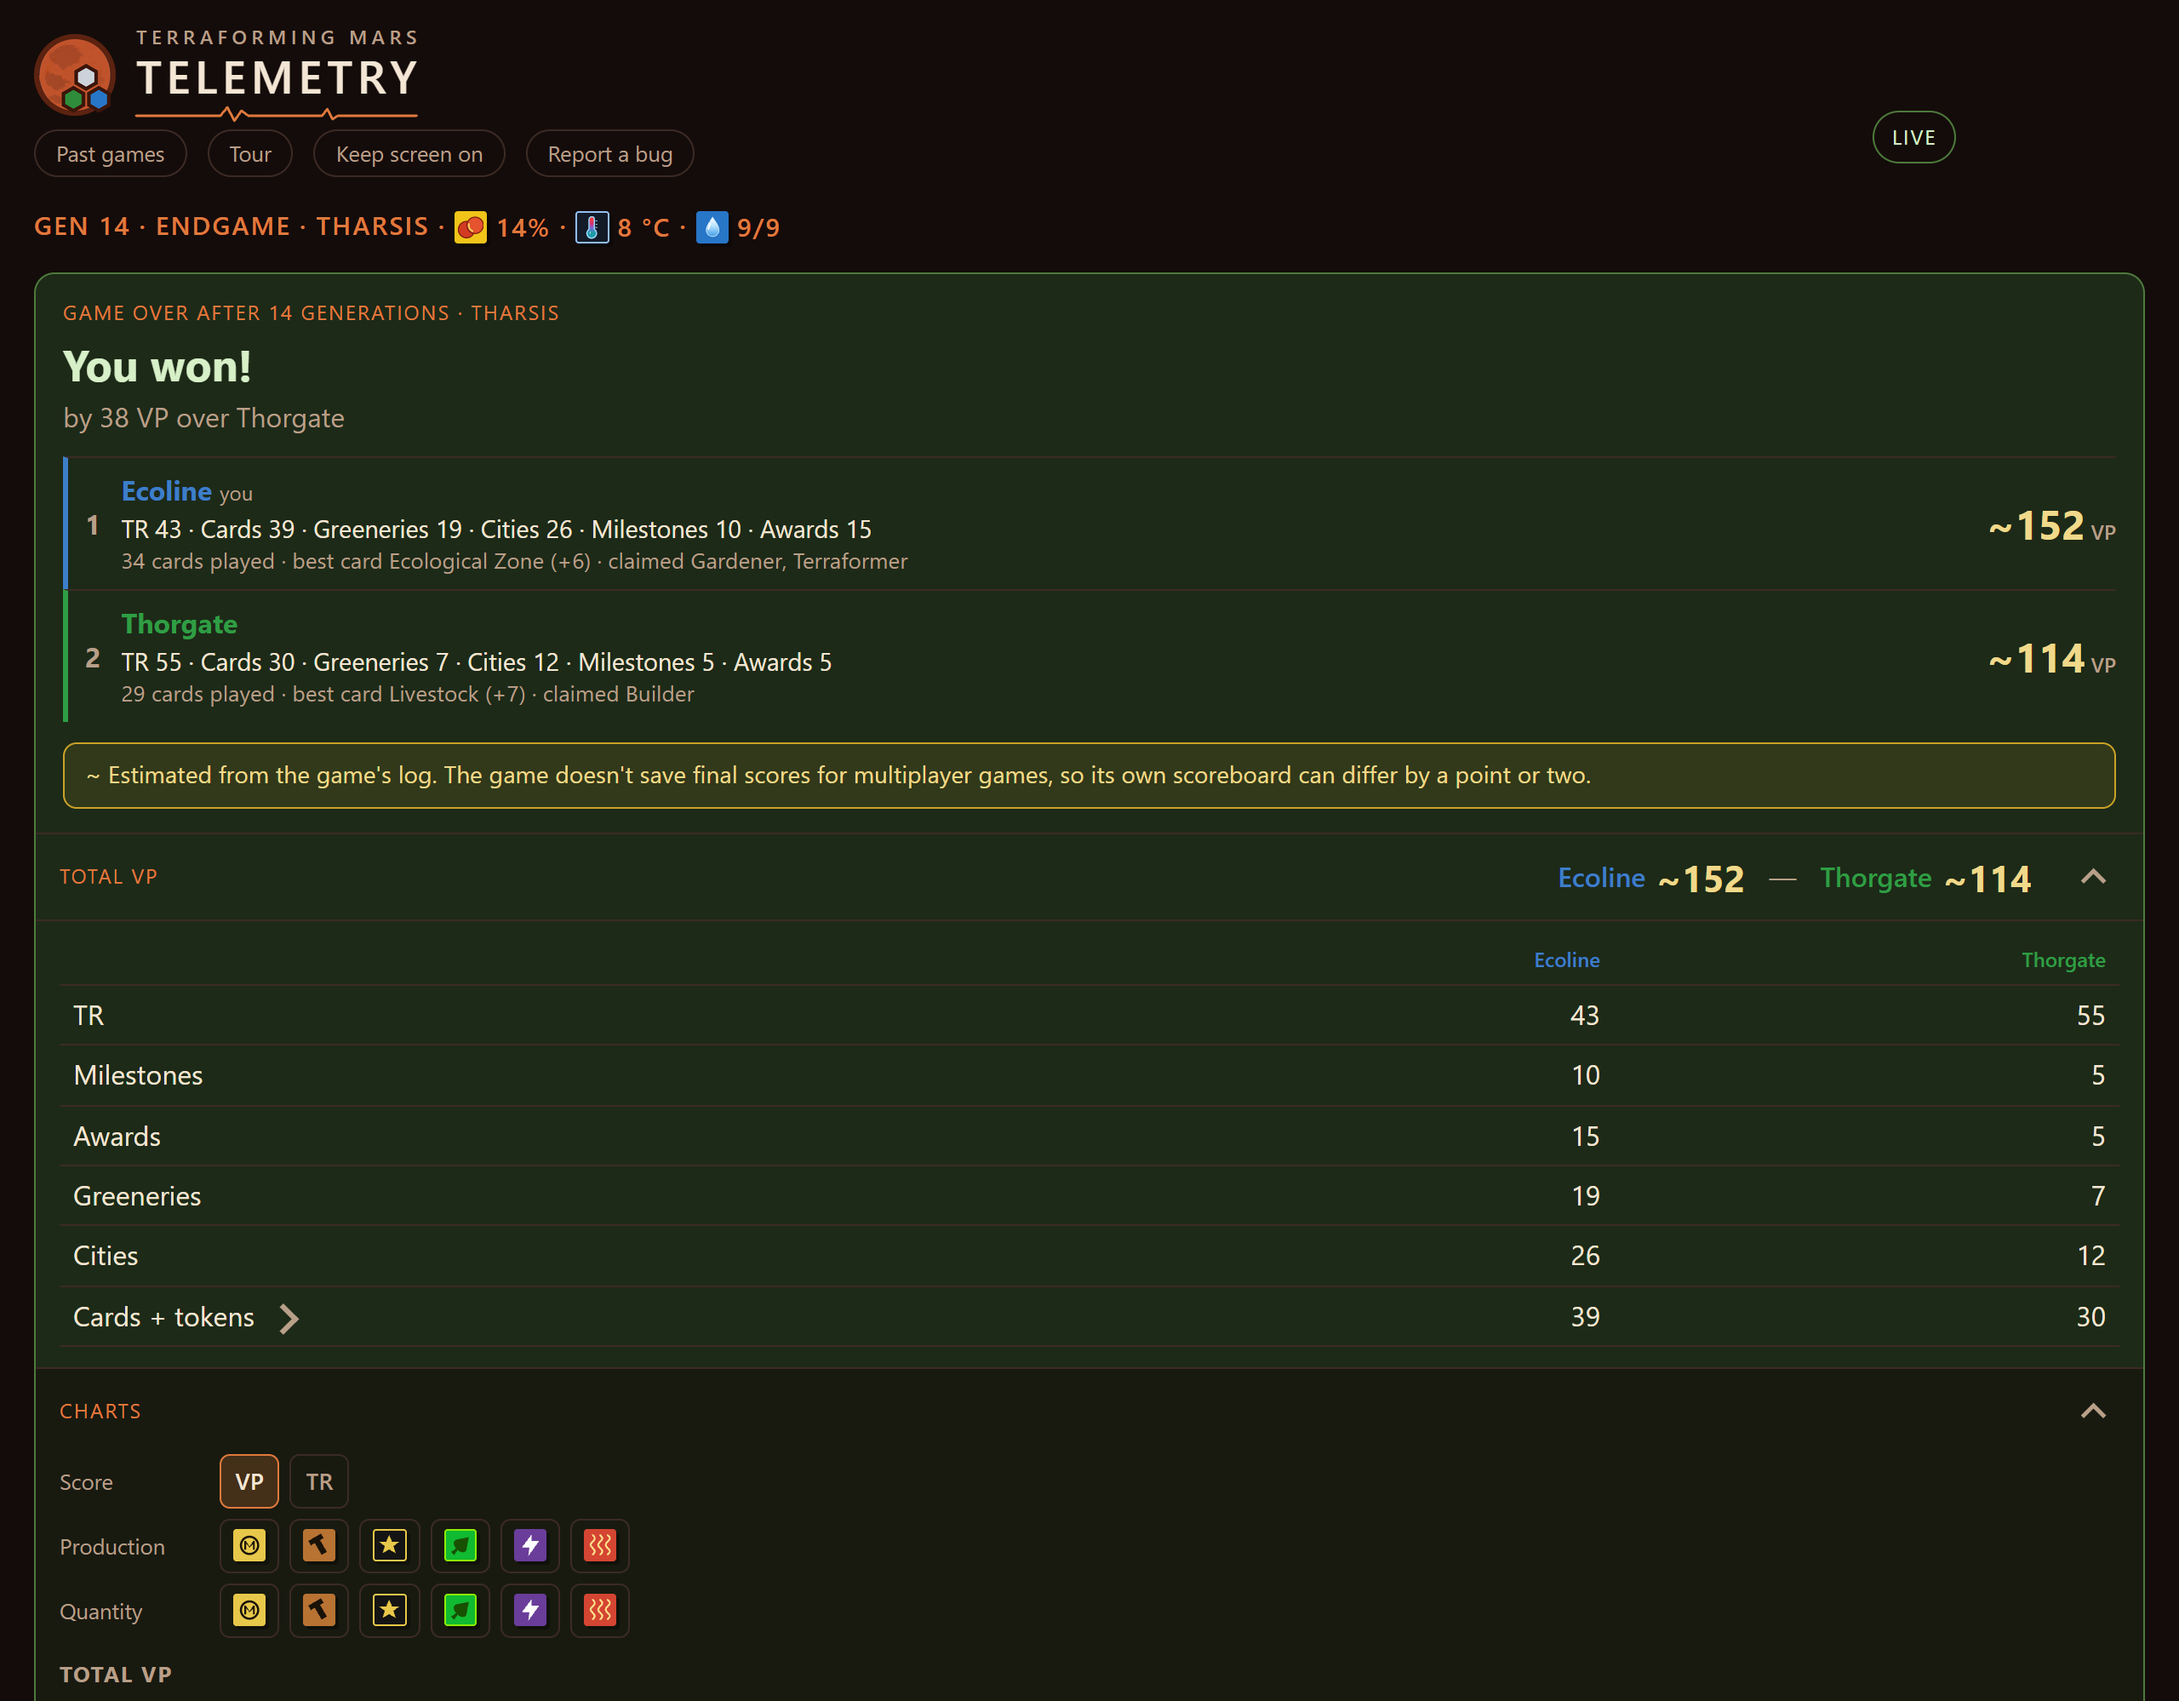
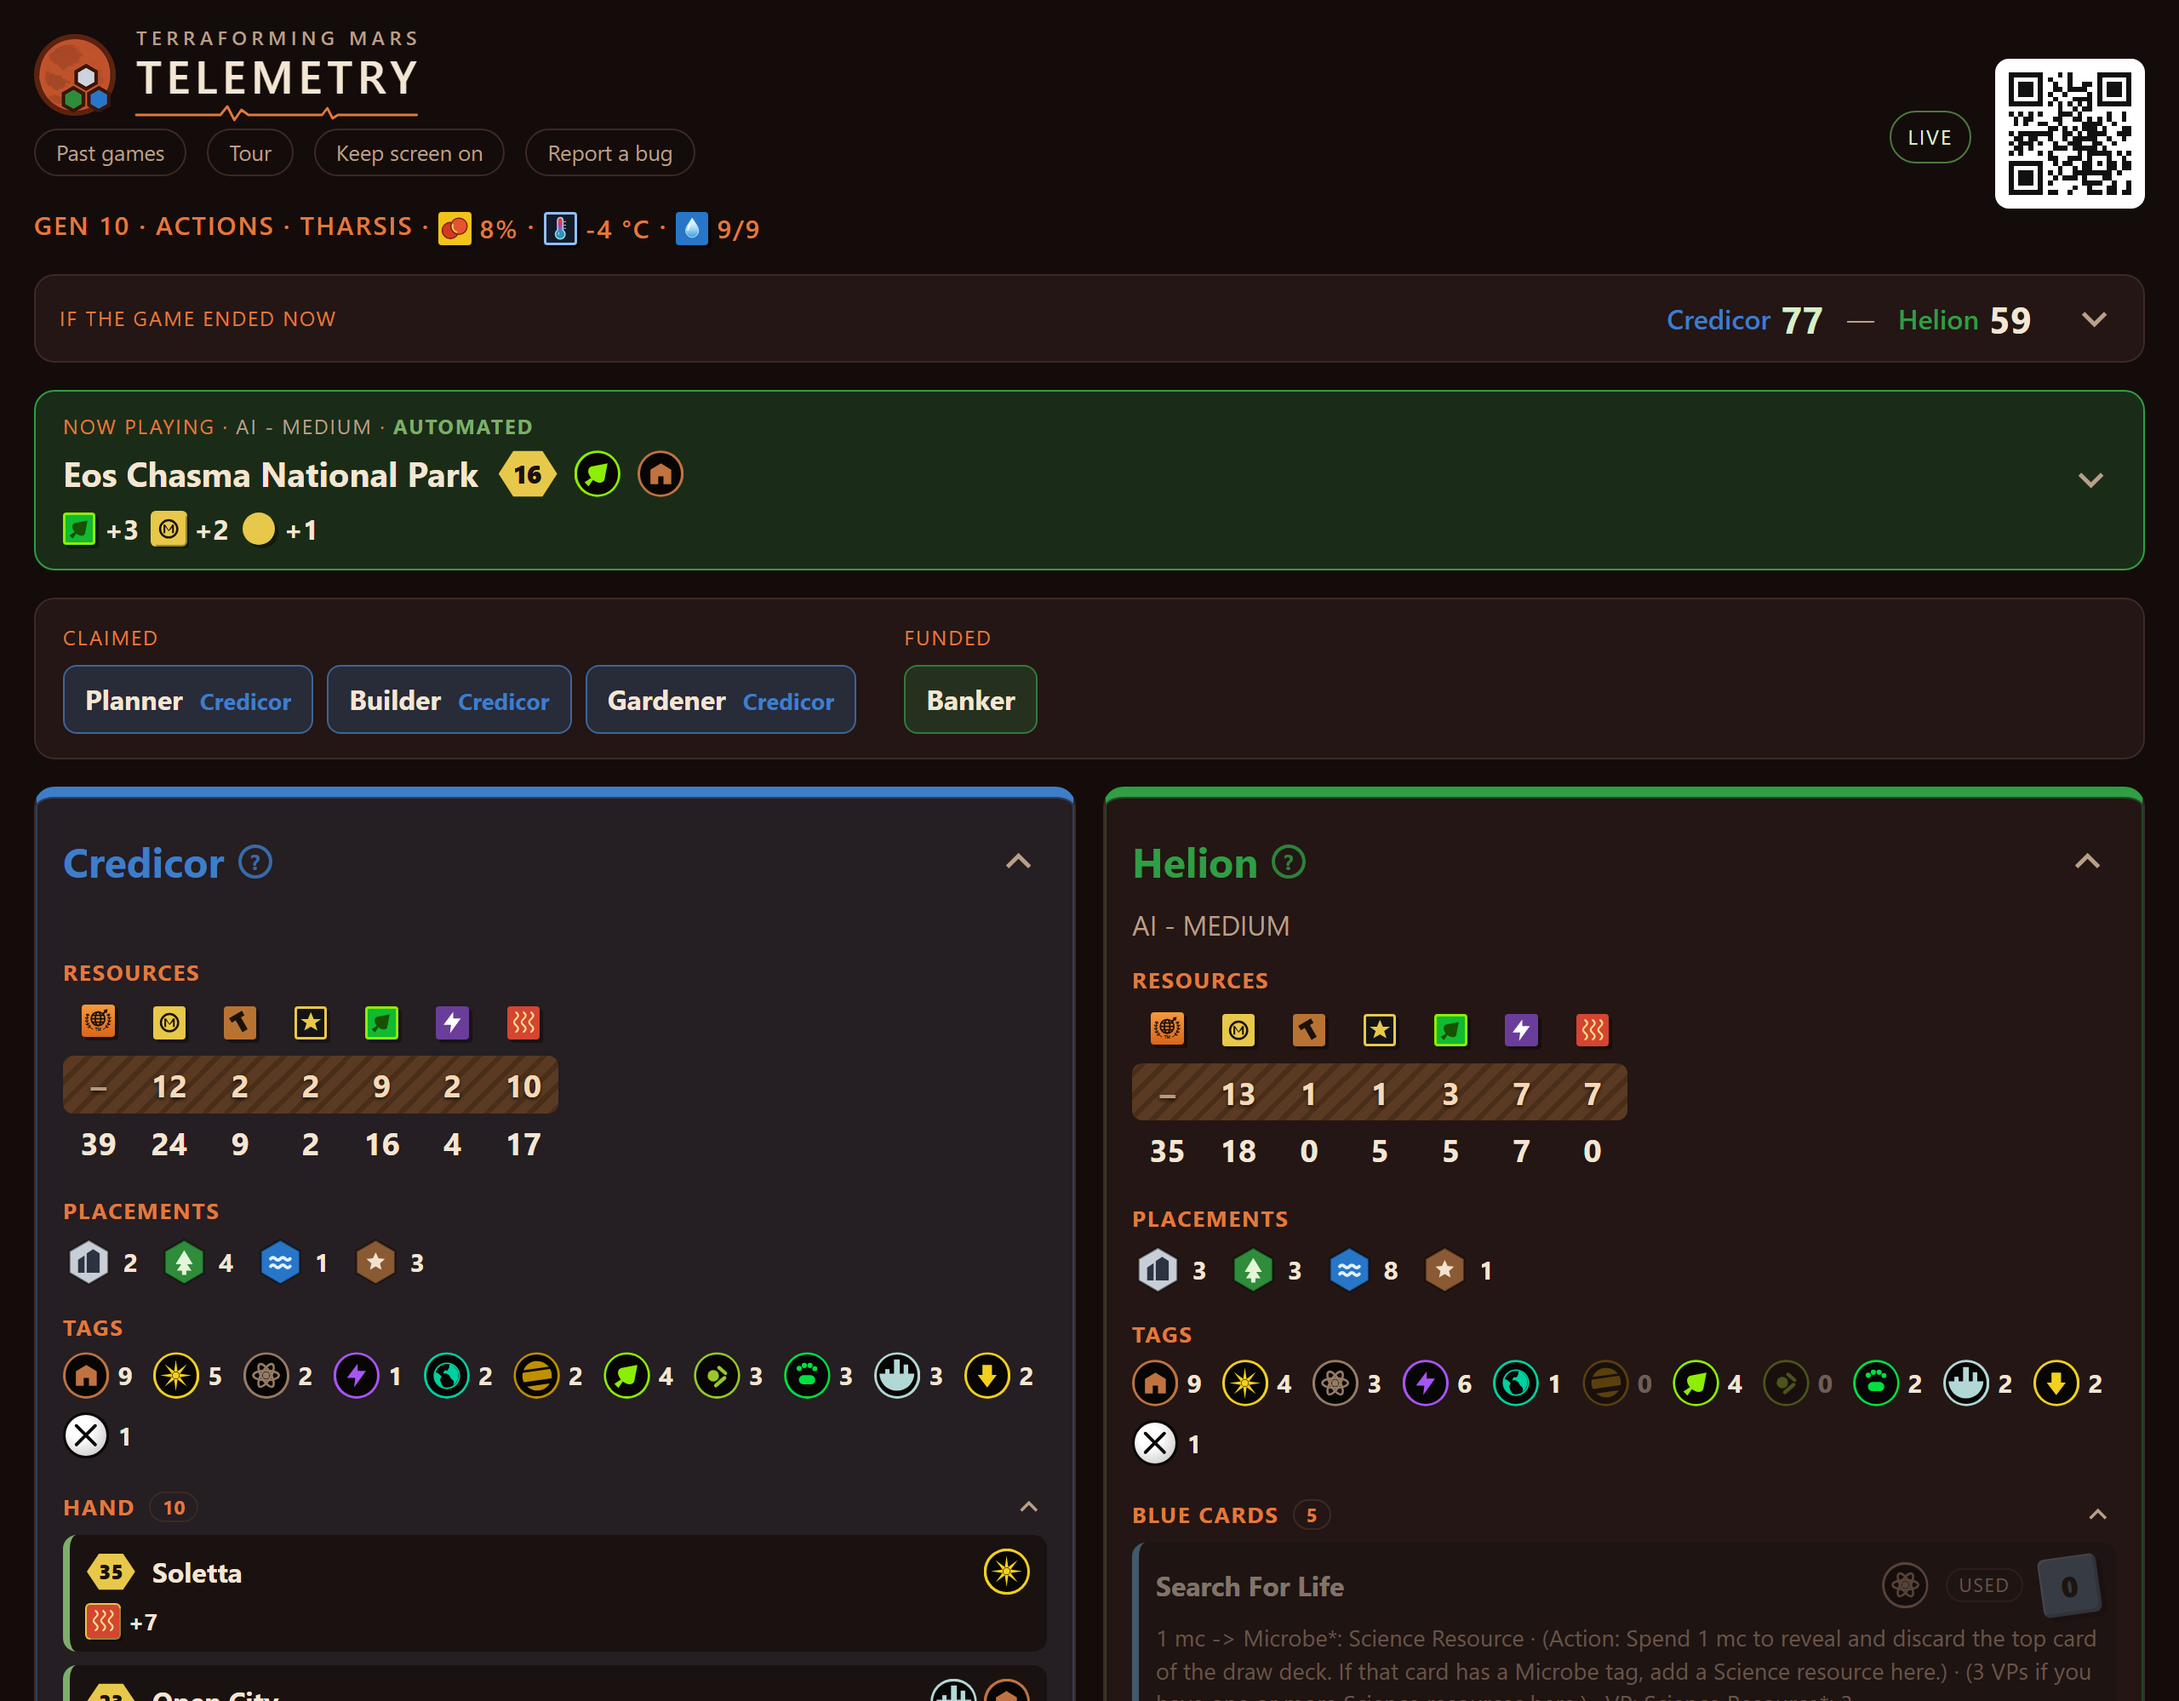
Homepage screenshot shows a game in progress
The top image on the README and Pages site was a finished game with the "You won!" summary. It now shows generation 10 of a two-player game: the live score, the card being played, milestones and awards, and both boards.

diff --git a/docs/index.html b/docs/index.html
@@ -205,7 +205,7 @@
       </div>
       <p class="fine">Free &middot; Windows installer &middot; No account, no sign-up</p>
       <div class="hero-shot shot">
-        <img src="screenshots/overview.png" width="2560" height="1998" alt="The dashboard after a finished game: the game status with oxygen, temperature and oceans, the game-over summary and the score breakdown">
+        <img src="screenshots/overview.png" width="2560" height="1998" alt="The dashboard during a game: the generation with oxygen, temperature and oceans, the score if the game ended now, the card being played, milestones and awards, and each player's resources, production and tags">
       </div>
     </div>
   </div>

diff --git a/README.md b/README.md
@@ -14,7 +14,7 @@
 </p>
 
 <p align="center">
-  <img src="docs/screenshots/overview.png" alt="Dashboard after a finished game: the game status with oxygen, temperature and oceans, the game-over summary and the score breakdown" width="900">
+  <img src="docs/screenshots/overview.png" alt="Dashboard during a game: the generation with oxygen, temperature and oceans, the score if the game ended now, the card being played, milestones and awards, and each player's resources, production and tags" width="900">
 </p>
 
 While you play, Terraforming Mars Telemetry reads the game's local log and turns it into a live dashboard of
